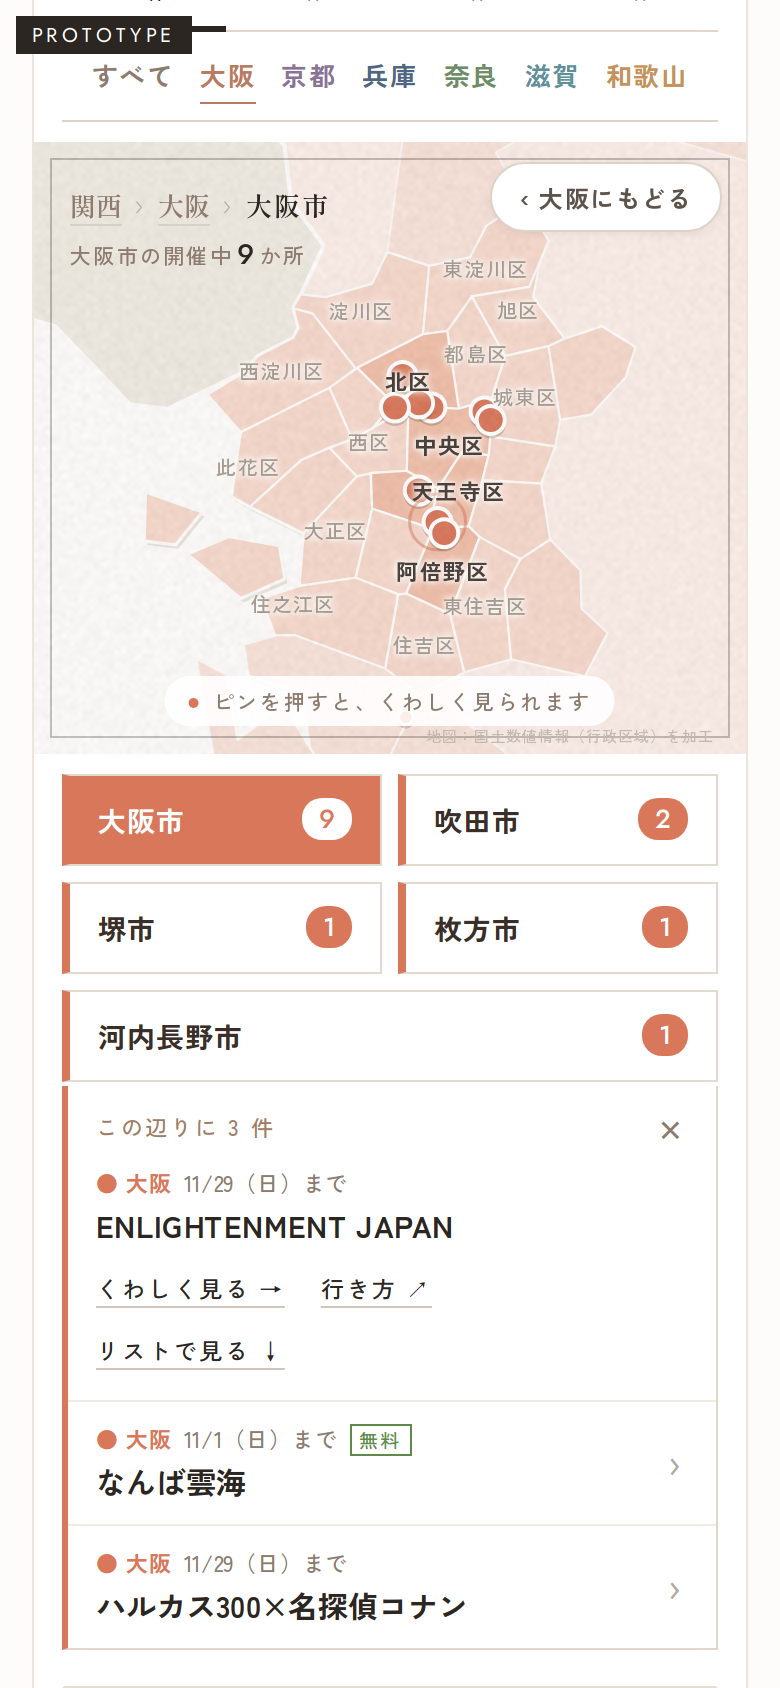
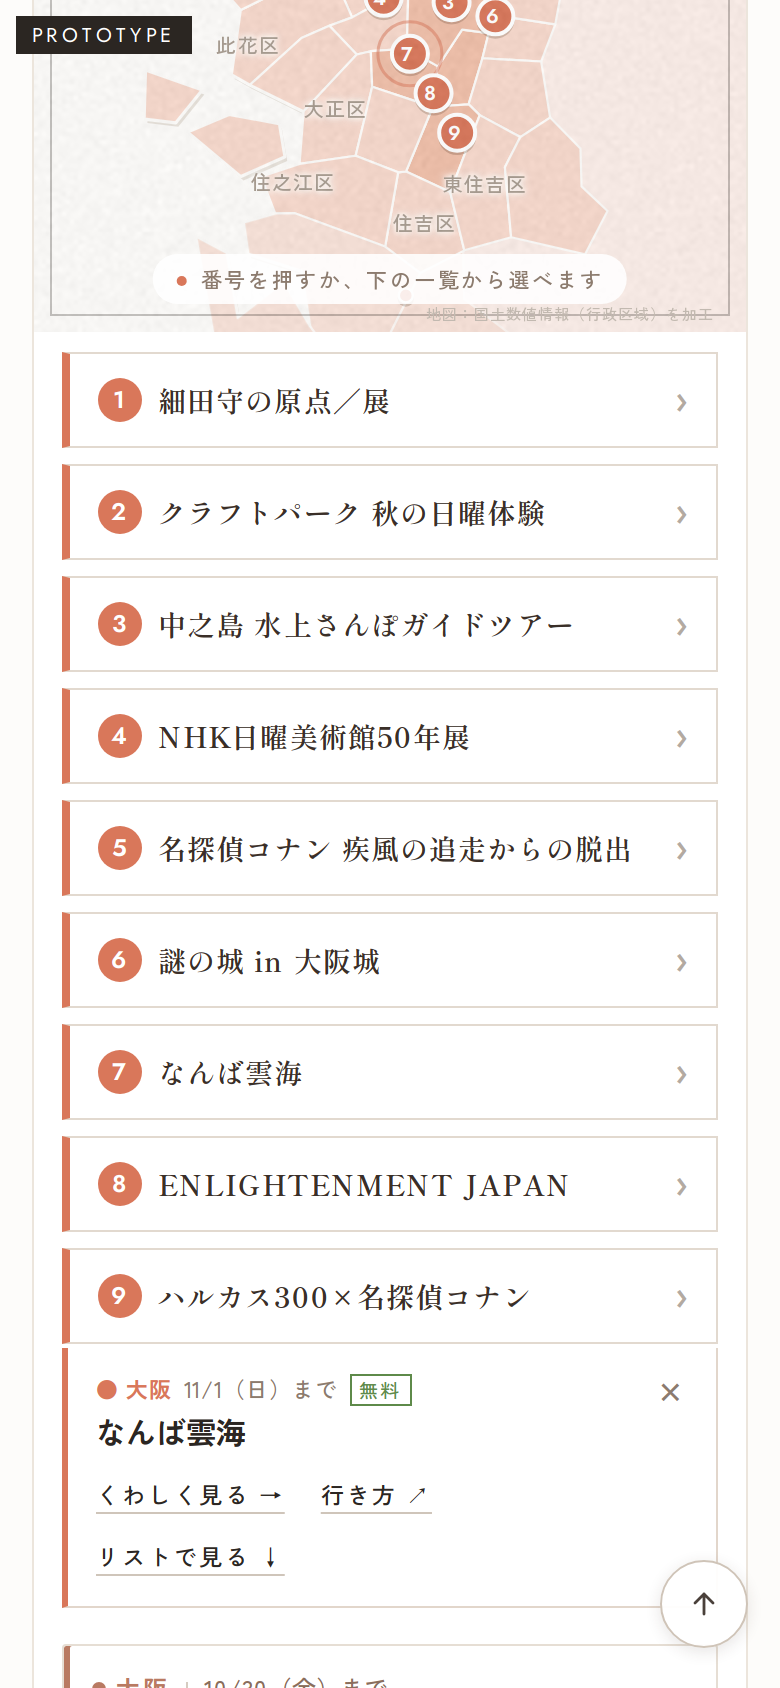
TOWN NOTES 試作：一覧と地図をつなぐ（選んだ番号が光る） (#184)
* TOWN NOTES（仮）: おでかけ先の場所を緯度経度にする仕組み

Claude-Session: https://claude.ai/code/session_012U6So1FwuhCU8YQS91whDj

* TOWN NOTES（仮）: 地図とピンの仮ページ（links/townnotes/）

Claude-Session: https://claude.ai/code/session_012U6So1FwuhCU8YQS91whDj

* townnotes: geo.json

* TOWN NOTES（仮）: 今のおでかけリストに地図とピンを組み込んだ試作

Claude-Session: https://claude.ai/code/session_012U6So1FwuhCU8YQS91whDj

* 古い試作テンプレートを消す

Claude-Session: https://claude.ai/code/session_012U6So1FwuhCU8YQS91whDj

* townnotes: geo.json

* TOWN NOTES（仮）: もうすぐのピンを点線の輪に

Claude-Session: https://claude.ai/code/session_012U6So1FwuhCU8YQS91whDj

* TOWN NOTES（仮）: 地図を指で拡大できる明るい地図に（区名・駅名つき）

Claude-Session: https://claude.ai/code/session_012U6So1FwuhCU8YQS91whDj

* townnotes: shots

* TOWN NOTES（仮）: 府県名・まとまりの丸・出典の表示を直す

Claude-Session: https://claude.ai/code/session_012U6So1FwuhCU8YQS91whDj

* townnotes: shots

* TOWN NOTES（仮）: イラストの地図に戻す（府県・市区町村の形だけ、明るい色、指で拡大）

Claude-Session: https://claude.ai/code/session_012U6So1FwuhCU8YQS91whDj

* townnotes: shots

* TOWN NOTES（仮）: 府県を選んだとき、ほかの府県は薄いベージュに

Claude-Session: https://claude.ai/code/session_012U6So1FwuhCU8YQS91whDj

* townnotes: shots

* TOWN NOTES 試作 v5: 押すだけで 関西→府県→市・区 と寄る地図（指2本なし）

Claude-Session: https://claude.ai/code/session_012U6So1FwuhCU8YQS91whDj

* townnotes: shots

* TOWN NOTES 試作: 府県ボタンと件数を地図のすぐ上へ

Claude-Session: https://claude.ai/code/session_012U6So1FwuhCU8YQS91whDj

* townnotes: shots

* TOWN NOTES 試作: 件数の行は上に戻し、府県ボタンだけ地図の上へ
[…]

diff --git a/links/townnotes/map.js b/links/townnotes/map.js
@@ -63,6 +63,18 @@ var css=`
 .tn .lb.hide{visibility:hidden}
 .tn .hit{fill:transparent;cursor:pointer}
 .tn .sel-r{fill:none;opacity:.5}
+.tn .pinx{transition:opacity .25s}
+.tn .pinx.dim{opacity:.35}
+.tn .glo{fill:none;stroke-width:2;transform-box:fill-box;transform-origin:center;animation:tnglo 1.3s cubic-bezier(.2,.7,.3,1) 3;opacity:0}
+@keyframes tnglo{0%{transform:scale(.7);opacity:.85}100%{transform:scale(2.1);opacity:0}}
+@media (prefers-reduced-motion:reduce){.tn .glo{animation:none}}
+.tn .chips button.sp{transition:background .2s,border-left-width .2s}
+.tn .chips button.sp.on{background:color-mix(in srgb,var(--c) 9%,#fff);border-left-width:7px}
+.tn .chips button.sp.on i{transform:scale(1.15);box-shadow:0 0 0 3px color-mix(in srgb,var(--c) 22%,#fff)}
+.tn .chips button.sp.on:after{content:"−"}
+.tn .chips .pop{flex:1 1 100%;margin-top:-8px}
+.tn .chips .pop .nb{display:none}
+.tn .pop .nb{display:inline-block;vertical-align:2px;margin-right:8px;width:22px;height:22px;line-height:22px;border-radius:50%;background:var(--pc);color:#fff;text-align:center;font-family:Jost,sans-serif;font-style:normal;font-weight:600;font-size:12px}
 .tn .crumb{position:absolute;left:18px;top:16px;z-index:5;display:flex;align-items:center;gap:6px;font-family:"Shippori Mincho",serif;font-weight:600;font-size:13px;letter-spacing:.08em;color:#2B2622}
 .tn .crumb button{font:inherit;color:#8C7B6E;background:none;border:0;padding:6px 0;cursor:pointer;text-decoration:underline;text-decoration-color:#D9CFC4;text-underline-offset:4px}
 .tn .crumb i{font-style:normal;font-family:Jost,sans-serif;color:#B3AAA1;font-weight:300}
@@ -207,18 +219,19 @@ function render(){var lv=level(),pf=state.pref,m=state.muni,pins=list.filter(fun
   var x1=Math.max.apply(null,gp.map(function(q){return q[0]})),x0=Math.min.apply(null,gp.map(function(q){return q[0]})),cy=gp.reduce(function(a,q){return a+q[1]},0)/gp.length;
   var e=addL(x1,cy,"m",esc(g.n)+"<b>"+cnt[id]+"</b>",cnt[id],PC[pf]);LB[LB.length-1].side=1;LB[LB.length-1].x2=x0;e.addEventListener("click",function(ev){ev.stopPropagation();goMuni(g)})});
  if(lv===3&&m.city)m.mus.forEach(function(x){var cx=(x.bb[0]+x.bb[2])/2,cy=(x.bb[1]+x.bb[3])/2;addL(cx,cy,"w"+(hw[x.id]?" h":""),esc(x.n),hw[x.id]?2:0)});
- G.pin.innerHTML="";
+ G.pin.innerHTML="";var selG=null;
  // 市の画面では、ピンに北から順に番号をふる（下の一覧と同じ番号）
  var NUM=lv===3?pins.filter(function(i){var mm=muniOf(i);return mm&&mm.grp===m}).sort(function(a,b){return b.lat-a.lat||a.lon-b.lon}):[];NUM.forEach(function(it,i){it._n=i+1});
- pins.forEach(function(it){if(pf&&it.pref!==pf)return;var q=P(it.lon,it.lat),c=PC[it.pref]||"#2B2622",inM=lv===3&&muniOf(it)&&muniOf(it).grp===m,r=lv===1?2.6:lv===2?5:(inM?9:3.5);
-  var g=el("g",{"class":"pinx"},G.pin);g.dataset.r=r;
+ pins.forEach(function(it){if(pf&&it.pref!==pf)return;var q=P(it.lon,it.lat),c=PC[it.pref]||"#2B2622",inM=lv===3&&muniOf(it)&&muniOf(it).grp===m,isS=sel&&sel.k===it.k,r=lv===1?2.6:lv===2?5:(inM?(isS?11:9):3.5);
+  var g=el("g",{"class":"pinx"+(lv===3&&sel&&inM&&!isS?" dim":"")},G.pin);g.dataset.r=r;if(isS)selG=g;
   if(lv>1)el("circle",{"class":"psh",cx:q[0],cy:q[1]},g);
-  if(sel&&sel.k===it.k)el("circle",{"class":"sel-r",cx:q[0],cy:q[1],stroke:c},g);
+  if(isS){el("circle",{"class":"sel-r",cx:q[0],cy:q[1],stroke:c},g);if(inM)el("circle",{"class":"glo",cx:q[0],cy:q[1],stroke:c},g)}
   el("circle",{"class":"dot",cx:q[0],cy:q[1],fill:it.soon?"#fff":c,stroke:it.soon?c:"#fff"},g);
   if(inM){var t=el("text",{"class":"pn",x:q[0],y:q[1]},g);t.textContent=it._n;g.dataset.n=1;if(it.soon)t.setAttribute("fill",c)}
   g.__it=it;g.__q=q;
   var h=el("circle",{"class":"hit",cx:q[0],cy:q[1]},g);h.addEventListener("click",function(ev){ev.stopPropagation();tapPin(it)});
   });
+ if(selG)G.pin.appendChild(selG);  // 選んだピンをいちばん上に
  var cr=$(".crumb",box);cr.innerHTML="";
  function cb(txt,fn){var b=document.createElement("button");b.type="button";b.textContent=txt;b.onclick=fn;cr.appendChild(b)}
  function sep(){var i=document.createElement("i");i.textContent="›";cr.appendChild(i)}
@@ -226,10 +239,11 @@ function render(){var lv=level(),pf=state.pref,m=state.muni,pins=list.filter(fun
  if(lv===1)cur("関西");else{cb("関西",function(){pickPref("")});sep();if(lv===2)cur(pf);else{cb(pf,function(){goPref()});sep();cur(m.n)}}
  var ce=$(".cen",box);ce.textContent=pf?EN[pf]:"KANSAI";ce.style.color=pf?PC[pf]:"";ce.style.display=lv===1?"":"none";
  var bk=$(".bk",box);bk.style.display=lv===1?"none":"block";bk.textContent=lv===3?"‹ "+pf+"にもどる":"‹ 関西にもどる";bk.onclick=function(){if(level()===3)goPref();else pickPref("")};
- var ch=$(".chips",box);ch.innerHTML="";
- if(lv===3)NUM.forEach(function(it){var b=document.createElement("button");b.type="button";b.className="sp";b.style.setProperty("--c",PC[pf]);b.innerHTML="<i>"+it._n+"</i><span>"+esc(it.t)+"</span>";b.onclick=function(){openPin(it)};ch.appendChild(b)});
+ var ch=$(".chips",box);if(pop.parentNode===ch)box.insertBefore(pop,ch);ch.innerHTML="";
+ if(lv===3)NUM.forEach(function(it){var b=document.createElement("button");b.type="button";b.className="sp";b.style.setProperty("--c",PC[pf]);b.dataset.k=it.k;if(sel&&sel.k===it.k&&pop.classList.contains("on"))b.classList.add("on");b.innerHTML="<i>"+it._n+"</i><span>"+esc(it.t)+"</span>";b.onclick=function(){if(sel&&sel.k===it.k&&pop.classList.contains("on"))closePop();else openPin(it,null,"list")};ch.appendChild(b)});
  if(lv===2){Object.keys(GR).map(function(id){return GR[id]}).filter(function(g){return g.p===pf&&cnt[g.id]}).sort(function(a,b){return cnt[b.id]-cnt[a.id]}).forEach(function(g){var b=document.createElement("button");b.type="button";b.style.setProperty("--c",PC[pf]);if(m===g)b.className="cur";b.innerHTML=esc(g.n)+"<b>"+cnt[g.id]+"</b>";b.onclick=function(){if(state.muni!==g)goMuni(g)};ch.appendChild(b)})}
  ch.classList.toggle("on",lv>1&&ch.children.length>0);ch.classList.toggle("l3",lv===3);
+ placePop();
  $(".hint",box).textContent=lv===1?"色のついた府県を押すと、近づきます":lv===2?"下のボタンか、色のついた所を押すと近づきます":"番号を押すか、下の一覧から選べます";
  $("#tnn",box).innerHTML=(lv===3?m.n:pf||"関西")+"の"+curTab()+"<b>"+(lv===3?(cnt[m.id]||0):pins.filter(function(i){return !pf||i.pref===pf}).length)+"</b>か所";
  apply();}
@@ -245,11 +259,16 @@ function row(it,full){var c=PC[it.pref]||"#2B2622";
  var h='<div class="d"><i style="color:'+c+'">● '+esc(it.pref)+'</i>'+esc(it.d)+it.tags.map(function(t){return '<u style="color:#5E8A4A">'+esc(t)+'</u>'}).join("")+'</div><div class="t">'+esc(it.t)+'</div>';
  if(full)h+='<div class="ac"><a href="'+esc(it.href)+'" target="_blank" rel="noopener" data-k="地図ピン｜'+esc(it.t)+'">くわしく見る →</a>'+(it.map?'<a href="'+esc(it.map)+'" target="_blank" rel="noopener" data-k="地図ピン地図｜'+esc(it.t)+'">行き方 ↗</a>':'')+'<a href="#" class="go2">リストで見る ↓</a></div>';
  return h}
-function openPin(it,near){if(!it)return;sel=it;near=(near&&near.length?near:[it]).slice();near.sort(function(a,b){return a===it?-1:b===it?1:0});
+// カードの出る場所：地図で押したら地図のすぐ下、一覧で押したらその行のすぐ下
+var popAt="map";
+function placePop(){var ch=$(".chips",box),row=popAt==="list"&&sel&&level()===3?$$("button.sp",ch).filter(function(b){return b.dataset.k===String(sel.k)})[0]:null;
+ if(row)row.after(pop);else if(pop.previousElementSibling!==$(".fr",box))$(".fr",box).after(pop)}
+function openPin(it,near,from){if(!it)return;sel=it;popAt=from==="list"?"list":"map";near=(near&&near.length?near:[it]).slice();near.sort(function(a,b){return a===it?-1:b===it?1:0});
  var pb=$(".pb",pop);pop.style.setProperty("--pc",PC[it.pref]||"#2B2622");
  if(near.length>1){pb.innerHTML='<div class="gh">この辺りに '+near.length+' 件</div>'+near.map(function(o,i){return '<div class="pi'+(i?" mini":"")+'" data-i="'+i+'">'+row(o,!i)+'</div>'}).join("");
   $$(".pi.mini",pb).forEach(function(e){e.addEventListener("click",function(){openPin(near[+e.dataset.i],near)})});}
  else pb.innerHTML='<div class="pi">'+row(it,true)+'</div>';
+ var t1=$(".t",pb);if(t1&&level()===3&&it._n){var nb=document.createElement("i");nb.className="nb";nb.textContent=it._n;t1.prepend(nb)}  // 地図と同じ番号をカードにも
  var g2=$(".go2",pb);if(g2)g2.addEventListener("click",function(e){e.preventDefault();toList(it)});
  pop.classList.add("on");render();
  setTimeout(function(){var b=pop.getBoundingClientRect();if(b.bottom>innerHeight-20)scrollBy({top:Math.min(b.bottom-innerHeight+40,b.top-60),behavior:"smooth"})},60);}

diff --git a/tools/townnotes/map.src.js b/tools/townnotes/map.src.js
@@ -63,6 +63,18 @@ var css=`
 .tn .lb.hide{visibility:hidden}
 .tn .hit{fill:transparent;cursor:pointer}
 .tn .sel-r{fill:none;opacity:.5}
+.tn .pinx{transition:opacity .25s}
+.tn .pinx.dim{opacity:.35}
+.tn .glo{fill:none;stroke-width:2;transform-box:fill-box;transform-origin:center;animation:tnglo 1.3s cubic-bezier(.2,.7,.3,1) 3;opacity:0}
+@keyframes tnglo{0%{transform:scale(.7);opacity:.85}100%{transform:scale(2.1);opacity:0}}
+@media (prefers-reduced-motion:reduce){.tn .glo{animation:none}}
+.tn .chips button.sp{transition:background .2s,border-left-width .2s}
+.tn .chips button.sp.on{background:color-mix(in srgb,var(--c) 9%,#fff);border-left-width:7px}
+.tn .chips button.sp.on i{transform:scale(1.15);box-shadow:0 0 0 3px color-mix(in srgb,var(--c) 22%,#fff)}
+.tn .chips button.sp.on:after{content:"−"}
+.tn .chips .pop{flex:1 1 100%;margin-top:-8px}
+.tn .chips .pop .nb{display:none}
+.tn .pop .nb{display:inline-block;vertical-align:2px;margin-right:8px;width:22px;height:22px;line-height:22px;border-radius:50%;background:var(--pc);color:#fff;text-align:center;font-family:Jost,sans-serif;font-style:normal;font-weight:600;font-size:12px}
 .tn .crumb{position:absolute;left:18px;top:16px;z-index:5;display:flex;align-items:center;gap:6px;font-family:"Shippori Mincho",serif;font-weight:600;font-size:13px;letter-spacing:.08em;color:#2B2622}
 .tn .crumb button{font:inherit;color:#8C7B6E;background:none;border:0;padding:6px 0;cursor:pointer;text-decoration:underline;text-decoration-color:#D9CFC4;text-underline-offset:4px}
 .tn .crumb i{font-style:normal;font-family:Jost,sans-serif;color:#B3AAA1;font-weight:300}
@@ -207,18 +219,19 @@ function render(){var lv=level(),pf=state.pref,m=state.muni,pins=list.filter(fun
   var x1=Math.max.apply(null,gp.map(function(q){return q[0]})),x0=Math.min.apply(null,gp.map(function(q){return q[0]})),cy=gp.reduce(function(a,q){return a+q[1]},0)/gp.length;
   var e=addL(x1,cy,"m",esc(g.n)+"<b>"+cnt[id]+"</b>",cnt[id],PC[pf]);LB[LB.length-1].side=1;LB[LB.length-1].x2=x0;e.addEventListener("click",function(ev){ev.stopPropagation();goMuni(g)})});
  if(lv===3&&m.city)m.mus.forEach(function(x){var cx=(x.bb[0]+x.bb[2])/2,cy=(x.bb[1]+x.bb[3])/2;addL(cx,cy,"w"+(hw[x.id]?" h":""),esc(x.n),hw[x.id]?2:0)});
- G.pin.innerHTML="";
+ G.pin.innerHTML="";var selG=null;
  // 市の画面では、ピンに北から順に番号をふる（下の一覧と同じ番号）
  var NUM=lv===3?pins.filter(function(i){var mm=muniOf(i);return mm&&mm.grp===m}).sort(function(a,b){return b.lat-a.lat||a.lon-b.lon}):[];NUM.forEach(function(it,i){it._n=i+1});
- pins.forEach(function(it){if(pf&&it.pref!==pf)return;var q=P(it.lon,it.lat),c=PC[it.pref]||"#2B2622",inM=lv===3&&muniOf(it)&&muniOf(it).grp===m,r=lv===1?2.6:lv===2?5:(inM?9:3.5);
-  var g=el("g",{"class":"pinx"},G.pin);g.dataset.r=r;
+ pins.forEach(function(it){if(pf&&it.pref!==pf)return;var q=P(it.lon,it.lat),c=PC[it.pref]||"#2B2622",inM=lv===3&&muniOf(it)&&muniOf(it).grp===m,isS=sel&&sel.k===it.k,r=lv===1?2.6:lv===2?5:(inM?(isS?11:9):3.5);
+  var g=el("g",{"class":"pinx"+(lv===3&&sel&&inM&&!isS?" dim":"")},G.pin);g.dataset.r=r;if(isS)selG=g;
   if(lv>1)el("circle",{"class":"psh",cx:q[0],cy:q[1]},g);
-  if(sel&&sel.k===it.k)el("circle",{"class":"sel-r",cx:q[0],cy:q[1],stroke:c},g);
+  if(isS){el("circle",{"class":"sel-r",cx:q[0],cy:q[1],stroke:c},g);if(inM)el("circle",{"class":"glo",cx:q[0],cy:q[1],stroke:c},g)}
   el("circle",{"class":"dot",cx:q[0],cy:q[1],fill:it.soon?"#fff":c,stroke:it.soon?c:"#fff"},g);
   if(inM){var t=el("text",{"class":"pn",x:q[0],y:q[1]},g);t.textContent=it._n;g.dataset.n=1;if(it.soon)t.setAttribute("fill",c)}
   g.__it=it;g.__q=q;
   var h=el("circle",{"class":"hit",cx:q[0],cy:q[1]},g);h.addEventListener("click",function(ev){ev.stopPropagation();tapPin(it)});
   });
+ if(selG)G.pin.appendChild(selG);  // 選んだピンをいちばん上に
  var cr=$(".crumb",box);cr.innerHTML="";
  function cb(txt,fn){var b=document.createElement("button");b.type="button";b.textContent=txt;b.onclick=fn;cr.appendChild(b)}
  function sep(){var i=document.createElement("i");i.textContent="›";cr.appendChild(i)}
@@ -226,10 +239,11 @@ function render(){var lv=level(),pf=state.pref,m=state.muni,pins=list.filter(fun
  if(lv===1)cur("関西");else{cb("関西",function(){pickPref("")});sep();if(lv===2)cur(pf);else{cb(pf,function(){goPref()});sep();cur(m.n)}}
  var ce=$(".cen",box);ce.textContent=pf?EN[pf]:"KANSAI";ce.style.color=pf?PC[pf]:"";ce.style.display=lv===1?"":"none";
  var bk=$(".bk",box);bk.style.display=lv===1?"none":"block";bk.textContent=lv===3?"‹ "+pf+"にもどる":"‹ 関西にもどる";bk.onclick=function(){if(level()===3)goPref();else pickPref("")};
- var ch=$(".chips",box);ch.innerHTML="";
- if(lv===3)NUM.forEach(function(it){var b=document.createElement("button");b.type="button";b.className="sp";b.style.setProperty("--c",PC[pf]);b.innerHTML="<i>"+it._n+"</i><span>"+esc(it.t)+"</span>";b.onclick=function(){openPin(it)};ch.appendChild(b)});
+ var ch=$(".chips",box);if(pop.parentNode===ch)box.insertBefore(pop,ch);ch.innerHTML="";
+ if(lv===3)NUM.forEach(function(it){var b=document.createElement("button");b.type="button";b.className="sp";b.style.setProperty("--c",PC[pf]);b.dataset.k=it.k;if(sel&&sel.k===it.k&&pop.classList.contains("on"))b.classList.add("on");b.innerHTML="<i>"+it._n+"</i><span>"+esc(it.t)+"</span>";b.onclick=function(){if(sel&&sel.k===it.k&&pop.classList.contains("on"))closePop();else openPin(it,null,"list")};ch.appendChild(b)});
  if(lv===2){Object.keys(GR).map(function(id){return GR[id]}).filter(function(g){return g.p===pf&&cnt[g.id]}).sort(function(a,b){return cnt[b.id]-cnt[a.id]}).forEach(function(g){var b=document.createElement("button");b.type="button";b.style.setProperty("--c",PC[pf]);if(m===g)b.className="cur";b.innerHTML=esc(g.n)+"<b>"+cnt[g.id]+"</b>";b.onclick=function(){if(state.muni!==g)goMuni(g)};ch.appendChild(b)})}
  ch.classList.toggle("on",lv>1&&ch.children.length>0);ch.classList.toggle("l3",lv===3);
+ placePop();
  $(".hint",box).textContent=lv===1?"色のついた府県を押すと、近づきます":lv===2?"下のボタンか、色のついた所を押すと近づきます":"番号を押すか、下の一覧から選べます";
  $("#tnn",box).innerHTML=(lv===3?m.n:pf||"関西")+"の"+curTab()+"<b>"+(lv===3?(cnt[m.id]||0):pins.filter(function(i){return !pf||i.pref===pf}).length)+"</b>か所";
  apply();}
@@ -245,11 +259,16 @@ function row(it,full){var c=PC[it.pref]||"#2B2622";
  var h='<div class="d"><i style="color:'+c+'">● '+esc(it.pref)+'</i>'+esc(it.d)+it.tags.map(function(t){return '<u style="color:#5E8A4A">'+esc(t)+'</u>'}).join("")+'</div><div class="t">'+esc(it.t)+'</div>';
  if(full)h+='<div class="ac"><a href="'+esc(it.href)+'" target="_blank" rel="noopener" data-k="地図ピン｜'+esc(it.t)+'">くわしく見る →</a>'+(it.map?'<a href="'+esc(it.map)+'" target="_blank" rel="noopener" data-k="地図ピン地図｜'+esc(it.t)+'">行き方 ↗</a>':'')+'<a href="#" class="go2">リストで見る ↓</a></div>';
  return h}
-function openPin(it,near){if(!it)return;sel=it;near=(near&&near.length?near:[it]).slice();near.sort(function(a,b){return a===it?-1:b===it?1:0});
+// カードの出る場所：地図で押したら地図のすぐ下、一覧で押したらその行のすぐ下
+var popAt="map";
+function placePop(){var ch=$(".chips",box),row=popAt==="list"&&sel&&level()===3?$$("button.sp",ch).filter(function(b){return b.dataset.k===String(sel.k)})[0]:null;
+ if(row)row.after(pop);else if(pop.previousElementSibling!==$(".fr",box))$(".fr",box).after(pop)}
+function openPin(it,near,from){if(!it)return;sel=it;popAt=from==="list"?"list":"map";near=(near&&near.length?near:[it]).slice();near.sort(function(a,b){return a===it?-1:b===it?1:0});
  var pb=$(".pb",pop);pop.style.setProperty("--pc",PC[it.pref]||"#2B2622");
  if(near.length>1){pb.innerHTML='<div class="gh">この辺りに '+near.length+' 件</div>'+near.map(function(o,i){return '<div class="pi'+(i?" mini":"")+'" data-i="'+i+'">'+row(o,!i)+'</div>'}).join("");
   $$(".pi.mini",pb).forEach(function(e){e.addEventListener("click",function(){openPin(near[+e.dataset.i],near)})});}
  else pb.innerHTML='<div class="pi">'+row(it,true)+'</div>';
+ var t1=$(".t",pb);if(t1&&level()===3&&it._n){var nb=document.createElement("i");nb.className="nb";nb.textContent=it._n;t1.prepend(nb)}  // 地図と同じ番号をカードにも
  var g2=$(".go2",pb);if(g2)g2.addEventListener("click",function(e){e.preventDefault();toList(it)});
  pop.classList.add("on");render();
  setTimeout(function(){var b=pop.getBoundingClientRect();if(b.bottom>innerHeight-20)scrollBy({top:Math.min(b.bottom-innerHeight+40,b.top-60),behavior:"smooth"})},60);}
